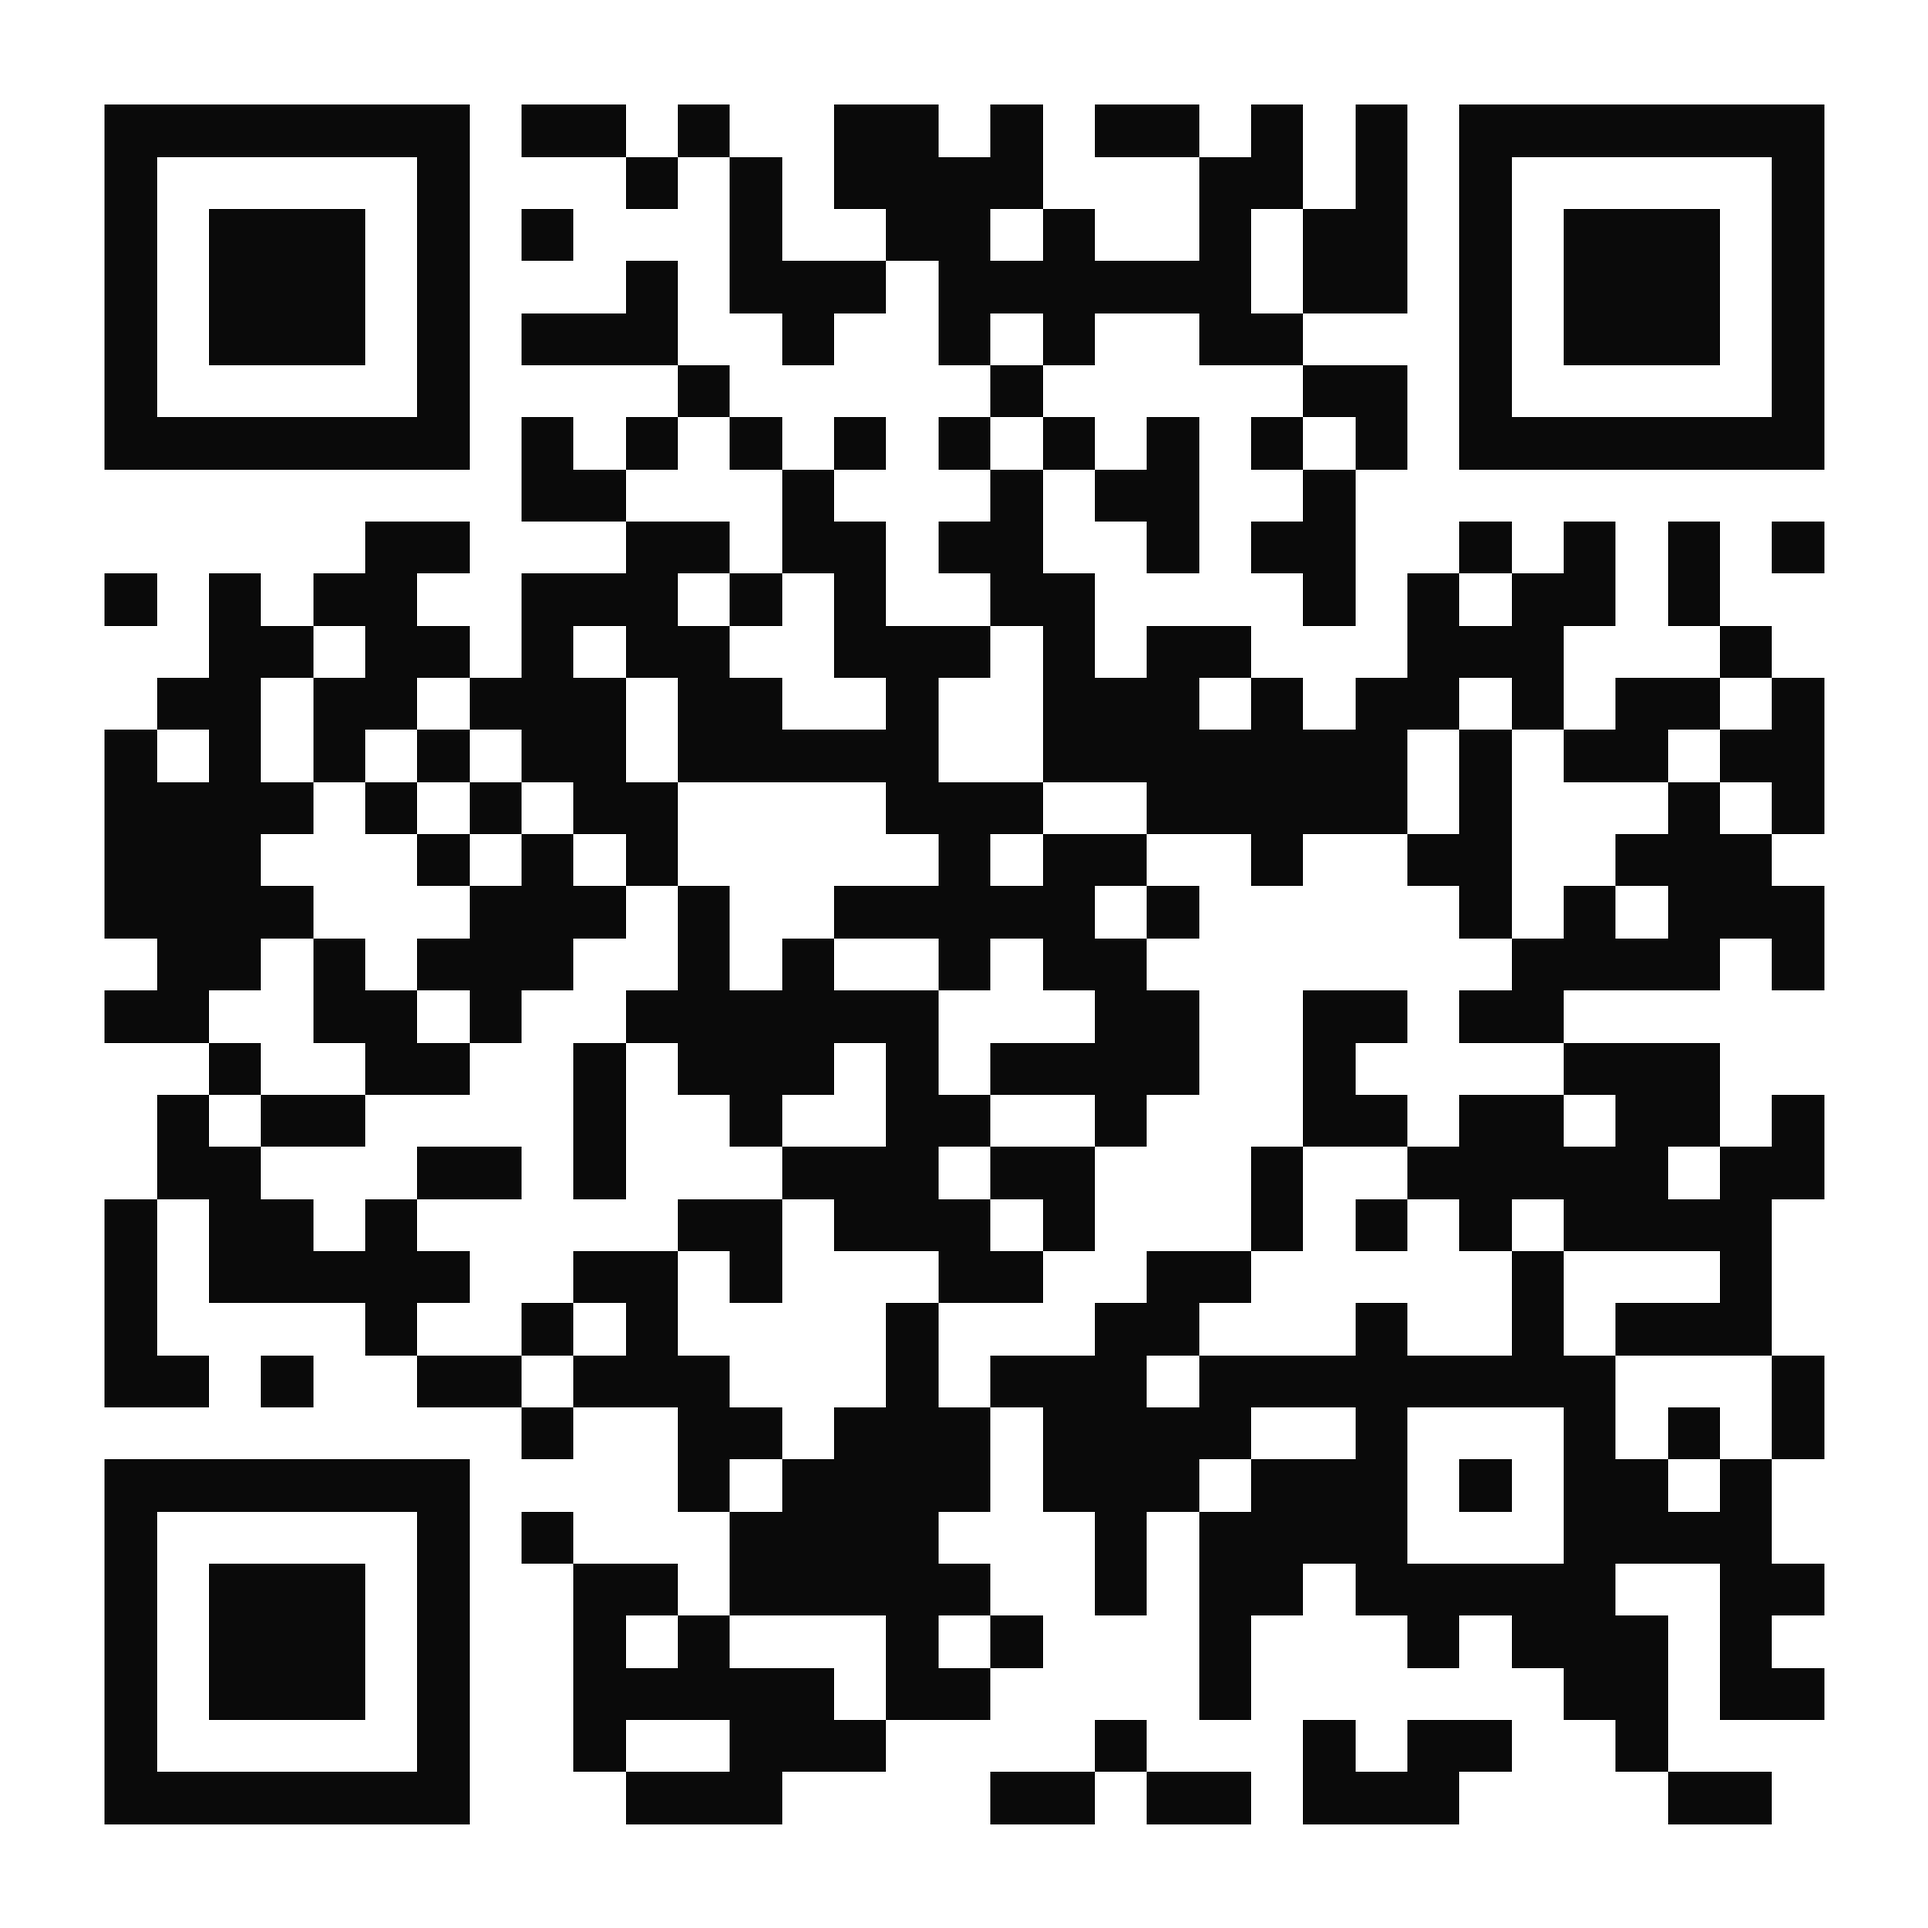
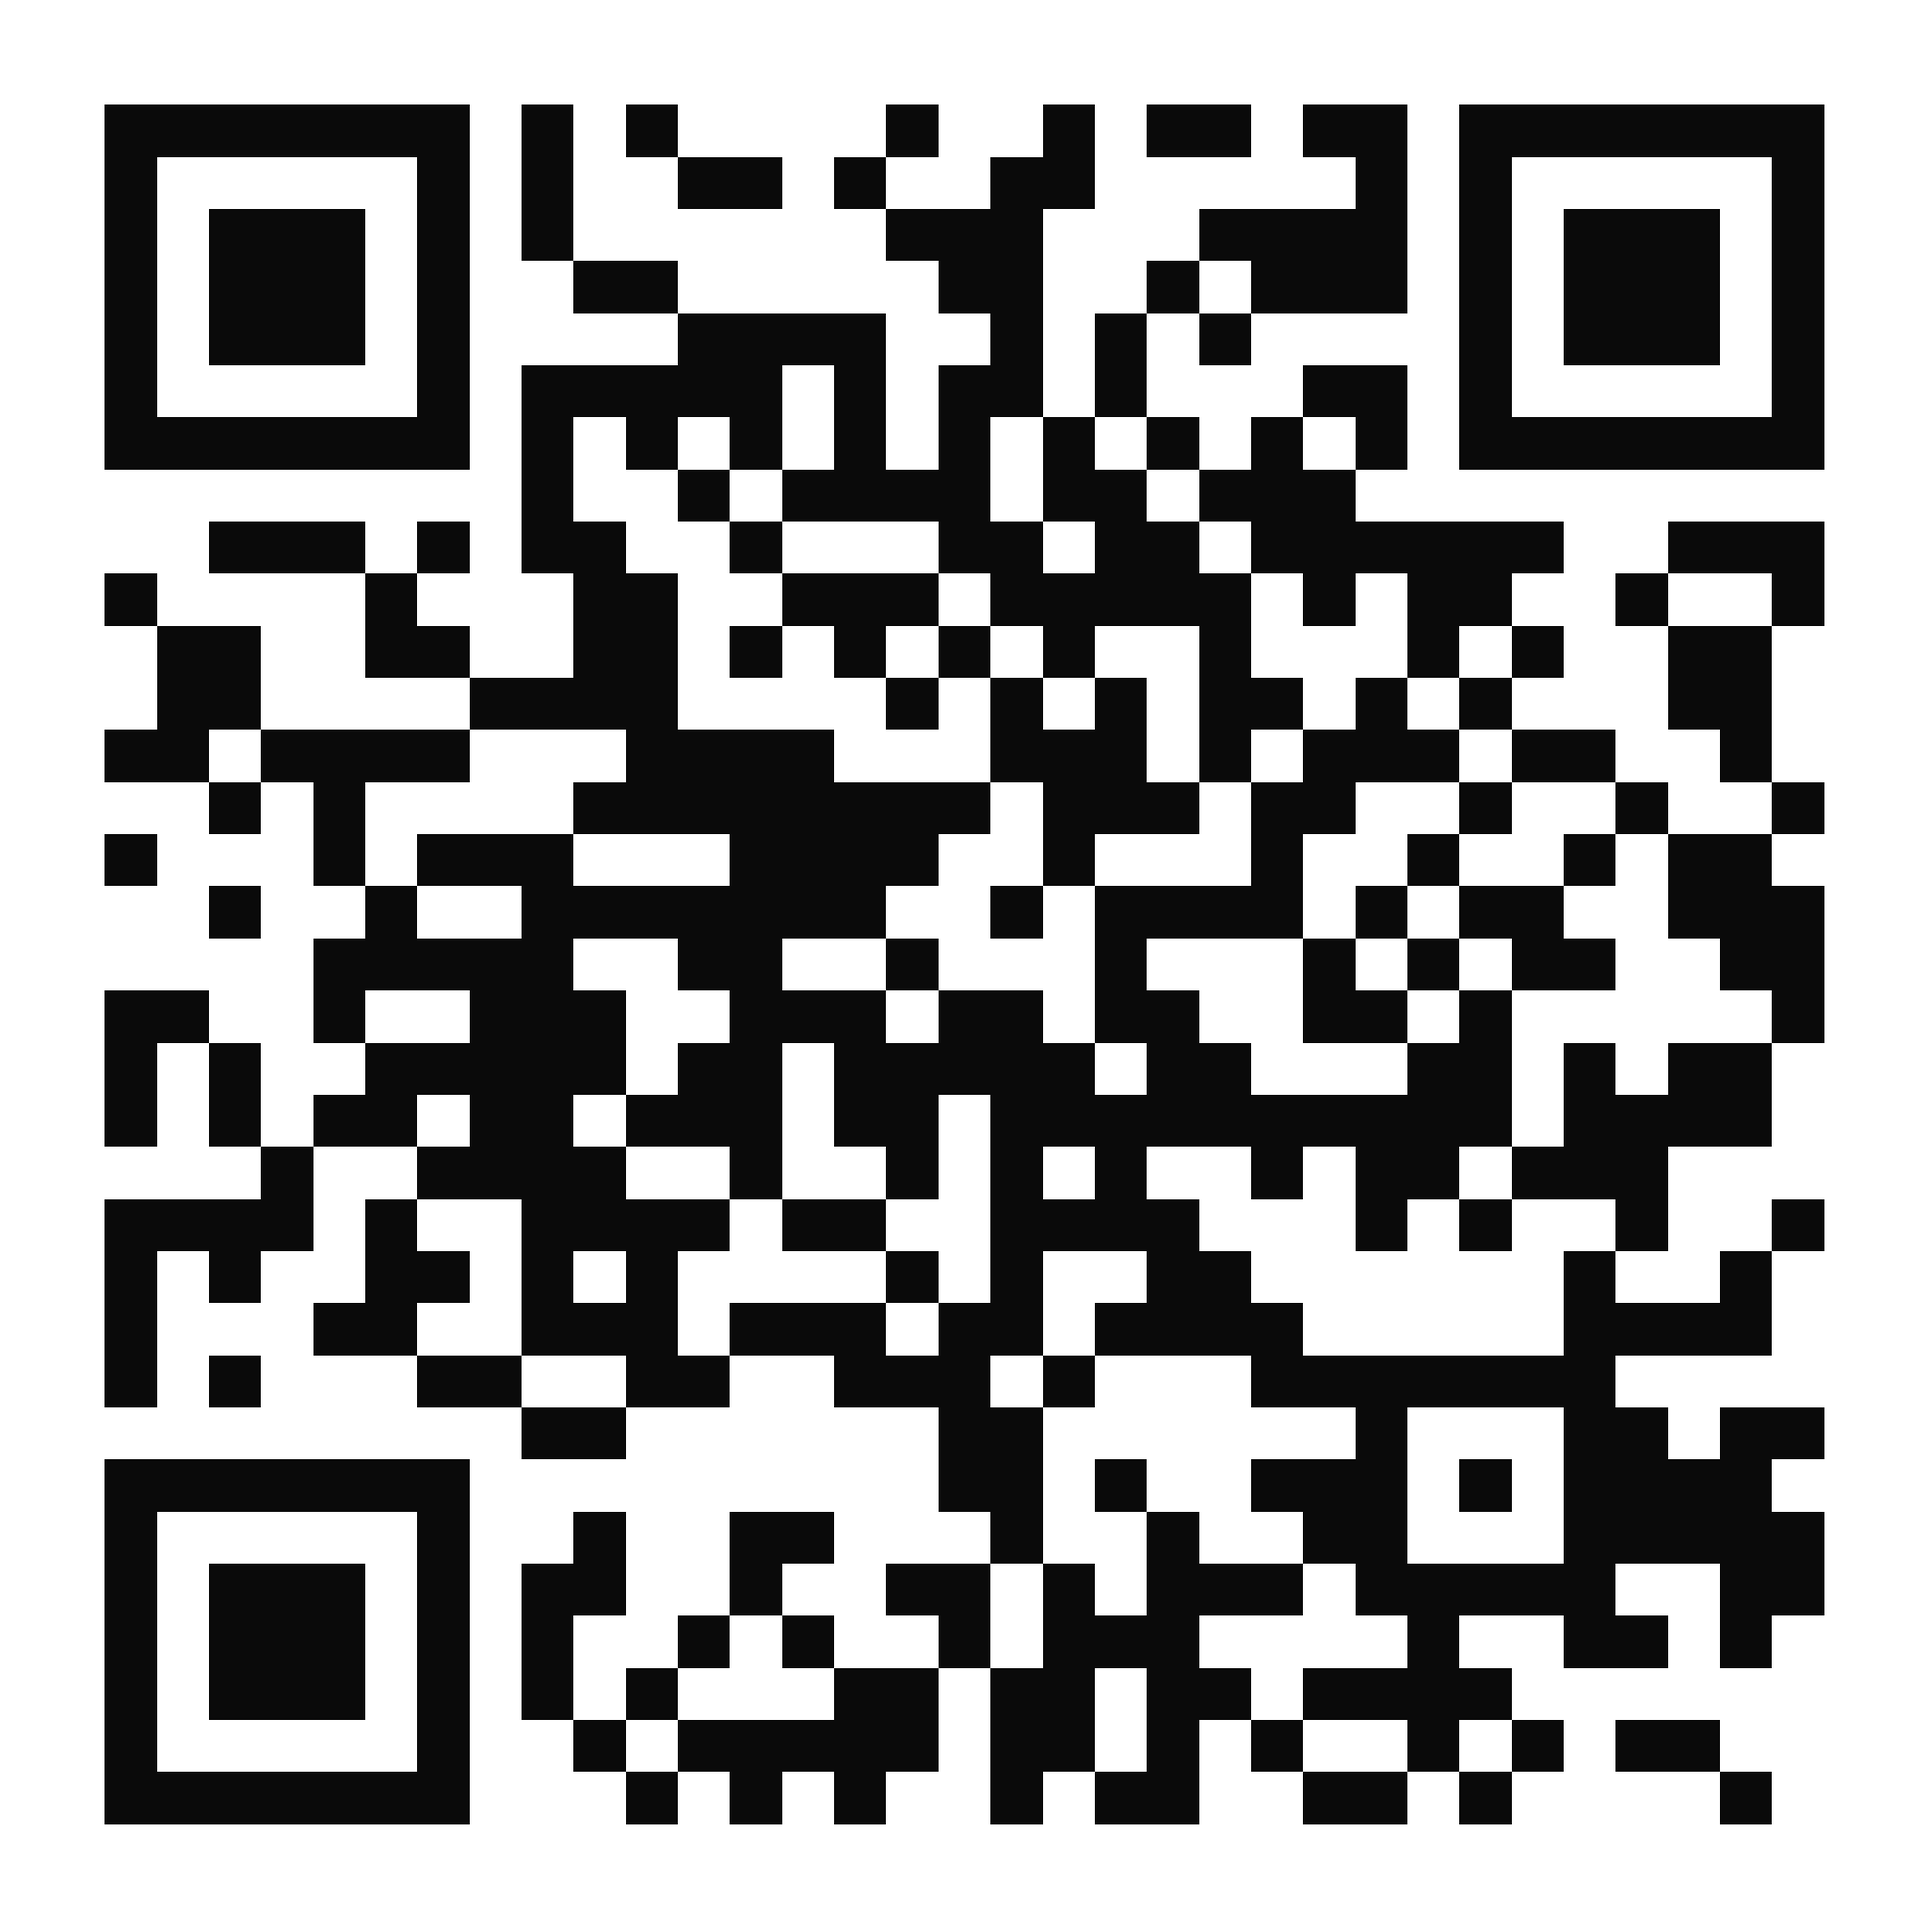
Replace site with "Officially coming soon" maintenance page
- src/App.tsx: minimal single-page layout, brutalist tokens from
  styles.css, responsive across small/landscape/tablet/desktop with
  safe-area insets and a clamp() headline that respects both vw and vh.
- src/styles.css: set body background to var(--color-ink) so iOS Safari
  overscroll and the home-indicator inset no longer reveal a white
  rectangle at the bottom.
- scripts/generate-qr.mjs: build the SVG manually and overlay
  public/icon.svg at the center (20% of code width, 1-module white
  knockout). PNG stays logo-free; level-H redundancy keeps the code
  scannable.
- qr/*: regenerated for https://unofficial-official.com.

Changed region(s): [[0.0312, 0.0312, 0.9688, 0.9688], [0.9062, 0.7812, 0.9688, 0.8125]]

diff --git a/src/App.tsx b/src/App.tsx
@@ -1,27 +1,30 @@
 export default function App() {
   return (
-    <main className="relative min-h-[100dvh] flex flex-col bg-[var(--color-ink)] text-[var(--color-paper)] overflow-hidden">
-      <header className="flex items-center justify-between px-4 sm:px-6 lg:px-12 pt-6 sm:pt-8 font-mono text-[10px] sm:text-xs uppercase tracking-[0.22em] text-[var(--color-paper-2)]">
+    <div className="relative min-h-[100dvh] flex flex-col bg-[var(--color-ink)] text-[var(--color-paper)]">
+      <header
+        className="flex flex-wrap items-center justify-between gap-x-4 gap-y-2 px-4 sm:px-6 md:px-10 lg:px-16 pt-5 sm:pt-7 md:pt-9 font-mono text-[10px] sm:text-xs uppercase tracking-[0.2em] text-[var(--color-paper-2)]"
+        style={{ paddingTop: 'max(1.25rem, env(safe-area-inset-top))' }}
+      >
         <span className="flex items-center gap-2">
           <span
             aria-hidden
             className="inline-block w-2 h-2 bg-[var(--color-signal)] rec-dot"
           />
-          Status: Maintenance
+          <span>Status: Maintenance</span>
         </span>
-        <span>Belarus Free Theatre</span>
+        <span className="whitespace-nowrap">Belarus Free Theatre</span>
       </header>
 
-      <section className="relative z-10 flex-1 flex flex-col justify-center px-4 sm:px-6 lg:px-12 py-16 mx-auto w-full max-w-6xl">
-        <p className="font-mono text-[10px] sm:text-xs uppercase tracking-[0.22em] text-[var(--color-paper-2)] mb-6 sm:mb-8">
+      <main className="flex-1 flex flex-col justify-center mx-auto w-full max-w-6xl px-4 sm:px-6 md:px-10 lg:px-16 py-10 sm:py-14 md:py-20">
+        <p className="font-mono text-[10px] sm:text-xs uppercase tracking-[0.22em] text-[var(--color-paper-2)] mb-4 sm:mb-6 md:mb-8">
           Official. Unofficial. Belarus.
         </p>
 
         <h1
           className="font-display"
           style={{
-            fontSize: 'var(--text-display-xl)',
-            lineHeight: 0.85,
+            fontSize: 'clamp(2.25rem, min(13vw, 22vh), 12rem)',
+            lineHeight: 0.88,
             letterSpacing: '-0.01em',
           }}
         >
@@ -30,14 +33,17 @@ export default function App() {
           <span className="text-[var(--color-signal)]">coming soon</span>
         </h1>
 
-        <p className="mt-8 sm:mt-10 max-w-xl font-sans text-base sm:text-lg text-[var(--color-paper-2)] leading-relaxed">
+        <p className="mt-6 sm:mt-8 md:mt-10 max-w-prose font-sans text-sm sm:text-base md:text-lg text-[var(--color-paper-2)] leading-relaxed">
           Something is being prepared here. Check back shortly.
         </p>
-      </section>
+      </main>
 
-      <footer className="px-4 sm:px-6 lg:px-12 pb-6 sm:pb-8 font-mono text-[10px] sm:text-xs uppercase tracking-[0.22em] text-[var(--color-mute)]">
+      <footer
+        className="px-4 sm:px-6 md:px-10 lg:px-16 pb-5 sm:pb-7 md:pb-9 font-mono text-[10px] sm:text-xs uppercase tracking-[0.2em] text-[var(--color-mute)]"
+        style={{ paddingBottom: 'max(1.25rem, env(safe-area-inset-bottom))' }}
+      >
         © {new Date().getFullYear()} — All rights reserved
       </footer>
-    </main>
+    </div>
   );
 }

diff --git a/src/styles.css b/src/styles.css
@@ -47,6 +47,7 @@
   body {
     margin: 0;
     min-height: 100dvh;
+    background: var(--color-ink);
     overscroll-behavior-y: none;
   }
 
